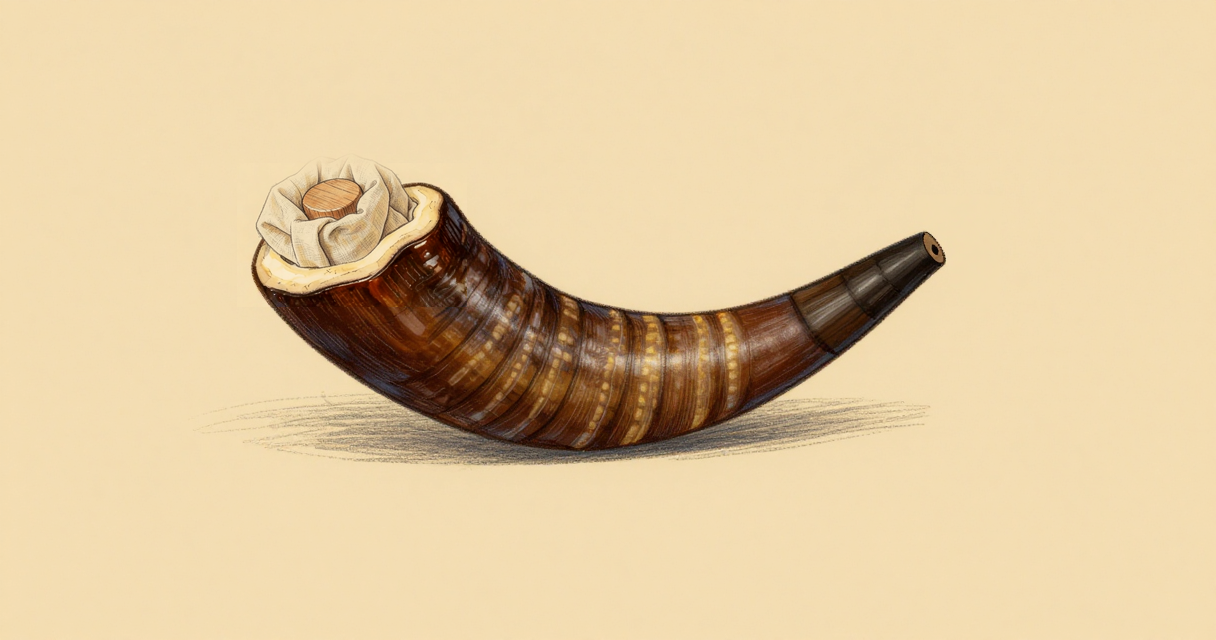
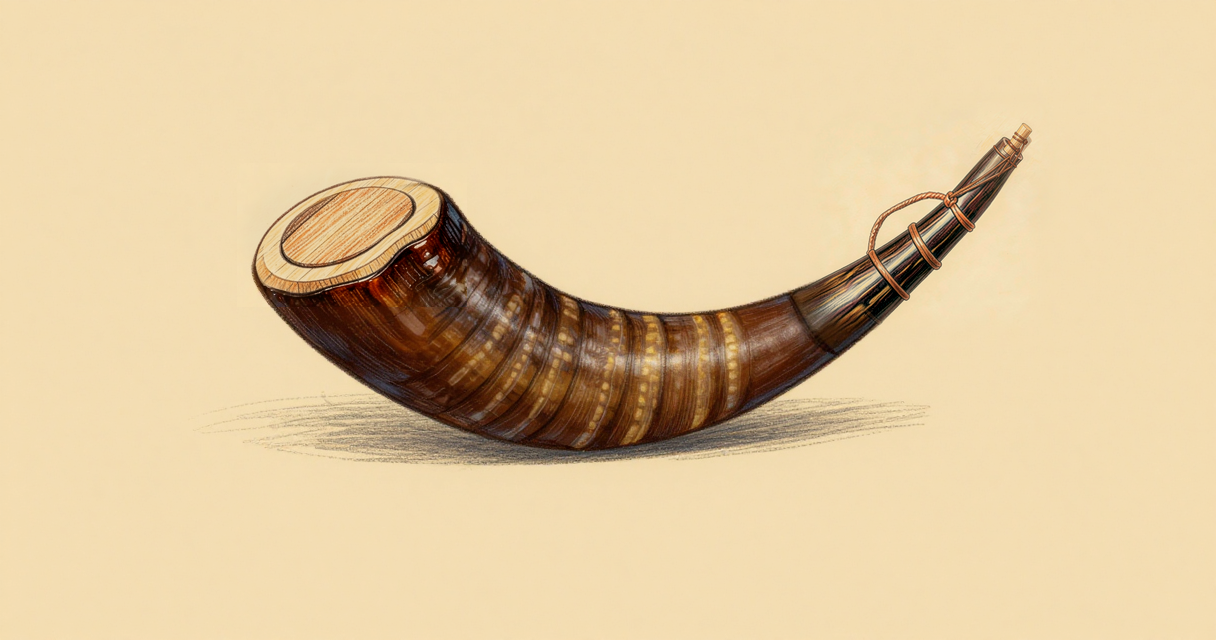
feat(canon): 기름 뿔 정본 다시 확정(사람 673 tie2-s1) — 밑동 영구 바닥·끝 구멍 끈 달린 마개 · 사전 설명·판정 기준 바로잡음
사람 고증(668): 넓은 밑동은 판으로 막은 바닥, 붓는 구멍은 잘라 낸 끝 · 옛 정본 661(밑동 천 마개)은 틀림.
사전 oil-horn L2 ko·L3 en·criteria·근거 칸. L2 en은 그대로(장면 문구 영향 없음).

Claude-Session: https://claude.ai/code/session_012hBPKFwr9raj2757bWq1Lv

Changed region(s): [[0.1875, 0.25, 0.375, 0.4688], [0.6562, 0.1875, 0.8438, 0.5]]

diff --git a/scripts/canon/frozen/props/PROPS.md b/scripts/canon/frozen/props/PROPS.md
@@ -2,4 +2,4 @@
 
 사람이 고른 지물 그림. 장면에 얹거나 비교 문항(장면 크롭 ↔ 정본)의 기준 그림으로 쓴다. 근거·과정은 각 줄의 노트.
 
-- `oil-horn.png` — 기름 뿔(사전 `oil-horn`) · 사람 판정 661 fit2 · 옆으로 누운 숫양 뿔(s5, 사람 655 「모양이 딱좋아」) + 잘린 끝 작은 주둥이 구멍(658) + 천으로 감싼 나무 마개가 입구를 메움(klein 입구 편집 `batch/horn_mouth_edit.py` linenfit 시드 2, 사람 660 「뿔입구와 나무가 안맞아서 천으로 감싼 나무 마개」) · 1216×640 · 노트 `notes/BETHLEHEM-STEP23.md` task 650~661
+- `oil-horn.png` — 기름 뿔(사전 `oil-horn`) · 사람 판정 673 tie2-s1 · 옆으로 누운 짙은 갈색 숫양 뿔(s5, 사람 655) · 넓은 밑동은 나무판으로 영구히 막은 바닥(668 wood1, 사람 고증 「넓은 밑부분을 나무나 금속 판으로 영구적으로 막아 바닥을 만들고」) · 끝은 마디 없이 매끈(672, 사람 「뿔끝이 마디가 안느껴지게」) · 잘라 낸 끝 구멍에 나무 마개, 마개 허리를 감은 가죽 끈이 뿔에 감긴 끈으로 이어짐(673, 사람 668·670·672) · 모두 klein 부분 편집(`batch/horn_mouth_edit.py` run·tip·plug·cord·smooth·plug2·tie·tie2) · 1216×640 · 노트 `notes/BETHLEHEM-STEP23.md` task 650~673 · (옛 정본 661 fit2는 밑동에 천 마개 — 틀림)
